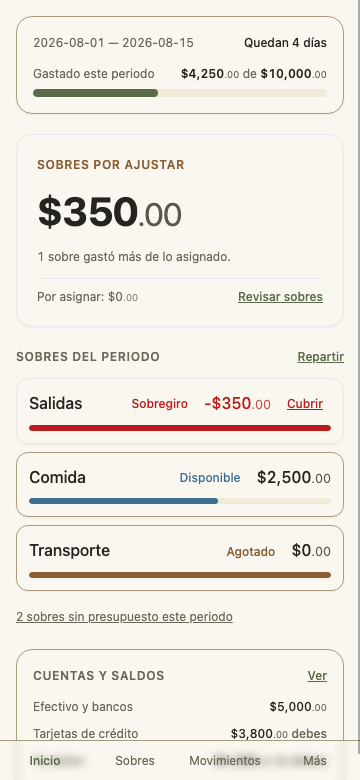
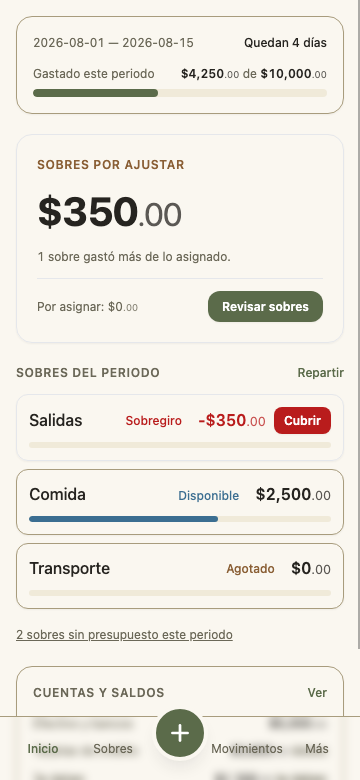
feat(ux): semantica de disponible en barras, botones vs enlaces, FAB central opcion A y padding-bottom completo

diff --git a/src/app/(app)/InicioView.tsx b/src/app/(app)/InicioView.tsx
@@ -128,11 +128,14 @@ function HeroCard({ dashboard }: { dashboard: DashboardResponse }) {
           <p className="text-xs text-muted">{overspentLabel}</p>
         </div>
 
-        <div className="flex items-center justify-between gap-2 border-t border-border/60 pt-2 text-xs">
+        <div className="flex items-center justify-between gap-2 border-t border-border/60 pt-3 text-xs">
           <span className="text-muted shrink-0">
             {es.field.unassignedCents}: <Money cents="0" />
           </span>
-          <Link href="/sobres" className="font-medium text-primary underline shrink-0">
+          <Link
+            href="/sobres"
+            className="inline-flex items-center justify-center rounded-lg bg-primary px-3.5 py-1.5 text-xs font-semibold text-primary-foreground shadow-sm transition-transform hover:opacity-95 active:scale-95 shrink-0"
+          >
             {es.inicio.reviewEnvelopes}
           </Link>
         </div>
@@ -154,8 +157,12 @@ function HeroCard({ dashboard }: { dashboard: DashboardResponse }) {
           <p className="text-xs text-muted">{es.inicio.readyToAssign}</p>
         </div>
 
-        <div className="border-t border-border/60 pt-2">
-          <Link href="/sobres" className="text-xs font-medium text-primary underline">
+        <div className="flex items-center justify-between gap-2 border-t border-border/60 pt-3 text-xs">
+          <span className="text-muted">{es.inicio.readyToAssign}</span>
+          <Link
+            href="/sobres"
+            className="inline-flex items-center justify-center rounded-lg bg-primary px-3.5 py-1.5 text-xs font-semibold text-primary-foreground shadow-sm transition-transform hover:opacity-95 active:scale-95 shrink-0"
+          >
             {es.inicio.assignAction}
           </Link>
         </div>
@@ -186,12 +193,17 @@ function HeroCard({ dashboard }: { dashboard: DashboardResponse }) {
 
 function EnvelopeProgressItem({ category }: { category: InsightCategoryBalance }) {
   const assigned = BigInt(category.assignedCents);
-  const spent = BigInt(category.spentCents);
+  const available = BigInt(category.availableCents);
   const isOverspent = category.status === 'overspent';
   const isDepleted = category.status === 'depleted';
   const hasBudget = category.hasBudget;
 
-  const percentage = assigned > 0n ? Math.min(Number((spent * 100n) / assigned), 100) : 0;
+  // Semantica de la barra: Mide el monto que queda en la categoria,
+  // concordando directamente con la cifra restante que tiene al lado.
+  const availablePercentage =
+    assigned > 0n
+      ? Math.max(0, Math.min(Number((available * 100n) / assigned), 100))
+      : 0;
 
   let progressColor = 'bg-state-available';
   if (isOverspent) progressColor = 'bg-state-overspent';
@@ -211,7 +223,7 @@ function EnvelopeProgressItem({ category }: { category: InsightCategoryBalance }
           <EnvelopeStatusBadge status={category.status} />
           {hasBudget ? (
             <span
-              className={`font-medium ${isOverspent ? 'text-state-overspent' : 'text-foreground'}`}
+              className={`font-semibold ${isOverspent ? 'text-state-overspent' : 'text-foreground'}`}
             >
               <Money cents={category.availableCents} />
             </span>
@@ -219,7 +231,7 @@ function EnvelopeProgressItem({ category }: { category: InsightCategoryBalance }
           {isOverspent ? (
             <Link
               href="/sobres"
-              className="rounded bg-state-overspent/10 px-2 py-0.5 text-xs font-medium text-state-overspent underline shrink-0"
+              className="inline-flex items-center justify-center rounded-md bg-state-overspent px-2.5 py-1 text-xs font-semibold text-white shadow-sm transition-transform hover:opacity-90 active:scale-95 shrink-0"
             >
               {es.inicio.coverOverspend}
             </Link>
@@ -231,7 +243,7 @@ function EnvelopeProgressItem({ category }: { category: InsightCategoryBalance }
         <div className="h-1.5 w-full overflow-hidden rounded-full bg-muted-background">
           <div
             className={`h-full rounded-full transition-all duration-300 ${progressColor}`}
-            style={{ width: `${percentage}%` }}
+            style={{ width: `${availablePercentage}%` }}
           />
         </div>
       ) : null}
@@ -397,7 +409,7 @@ export function InicioView() {
   }
 
   return (
-    <div className="mx-auto flex w-full max-w-lg flex-col gap-5 p-4 min-w-0">
+    <div className="mx-auto flex w-full max-w-lg flex-col gap-5 p-4 min-w-0 pb-28">
       {data.unbudgetedTransactions.length > 0 ? (
         <Banner
           message={`${data.unbudgetedTransactions.length}${es.inicio.unbudgetedSuffix}`}

diff --git a/src/components/layout/TabBar.tsx b/src/components/layout/TabBar.tsx
@@ -5,38 +5,90 @@ import { usePathname } from 'next/navigation';
 import { es } from '@/lib/i18n/es';
 import { cx } from '@/lib/ui/cx';
 
-// Los 4 tabs de SCREENS-front.md Parte 2, etiquetas en lib/i18n/es.ts (es.nav).
-const TABS = [
-  { href: '/', label: es.nav.inicio },
-  { href: '/sobres', label: es.nav.sobres },
-  { href: '/movimientos', label: es.nav.movimientos },
-  { href: '/mas', label: es.nav.mas },
-] as const;
-
 export function TabBar() {
   const pathname = usePathname();
+
+  const isInicio = pathname === '/';
+  const isEnvelopes = pathname.startsWith('/sobres');
+  const isMovimientos = pathname.startsWith('/movimientos');
+  const isMas = pathname.startsWith('/mas');
 
   return (
     <nav
       aria-label="Navegación principal"
-      className="fixed inset-x-0 bottom-0 z-20 flex w-full border-t border-border bg-background/95 backdrop-blur-sm shadow-md"
+      className="fixed inset-x-0 bottom-0 z-20 flex h-16 w-full items-center justify-around border-t border-border bg-background/95 backdrop-blur-sm shadow-md px-2"
     >
-      {TABS.map((tab) => {
-        const isActive = tab.href === '/' ? pathname === '/' : pathname.startsWith(tab.href);
-        return (
-          <Link
-            key={tab.href}
-            href={tab.href}
-            aria-current={isActive ? 'page' : undefined}
-            className={cx(
-              'flex flex-1 flex-col items-center justify-center py-2.5 px-1 text-xs min-w-0 transition-colors',
-              isActive ? 'text-primary font-medium' : 'text-muted hover:text-foreground',
-            )}
+      {/* 1. Inicio tab */}
+      <Link
+        href="/"
+        aria-current={isInicio ? 'page' : undefined}
+        className={cx(
+          'flex flex-1 flex-col items-center justify-center py-1 text-xs min-w-0 transition-colors',
+          isInicio ? 'text-primary font-medium' : 'text-muted hover:text-foreground',
+        )}
+      >
+        <span className="truncate">{es.nav.inicio}</span>
+      </Link>
+
+      {/* 2. Envelopes tab */}
+      <Link
+        href="/sobres"
+        aria-current={isEnvelopes ? 'page' : undefined}
+        className={cx(
+          'flex flex-1 flex-col items-center justify-center py-1 text-xs min-w-0 transition-colors',
+          isEnvelopes ? 'text-primary font-medium' : 'text-muted hover:text-foreground',
+        )}
+      >
+        <span className="truncate">{es.nav.sobres}</span>
+      </Link>
+
+      {/* 3. Botón Central Hero Action: Capturar gasto (FAB Opción A) */}
+      <div className="relative -top-4 flex shrink-0 items-center justify-center px-1">
+        <Link
+          href="/capturar/gasto"
+          aria-label="Capturar un gasto"
+          className="flex h-14 w-14 items-center justify-center rounded-full bg-primary text-primary-foreground shadow-lg transition-transform hover:scale-105 active:scale-95 border-4 border-background"
+        >
+          <svg
+            xmlns="http://www.w3.org/2000/svg"
+            width="26"
+            height="26"
+            viewBox="0 0 24 24"
+            fill="none"
+            stroke="currentColor"
+            strokeWidth="2.5"
+            strokeLinecap="round"
+            strokeLinejoin="round"
           >
-            <span className="truncate">{tab.label}</span>
-          </Link>
-        );
-      })}
+            <line x1="12" y1="5" x2="12" y2="19"></line>
+            <line x1="5" y1="12" x2="19" y2="12"></line>
+          </svg>
+        </Link>
+      </div>
+
+      {/* 4. Movimientos */}
+      <Link
+        href="/movimientos"
+        aria-current={isMovimientos ? 'page' : undefined}
+        className={cx(
+          'flex flex-1 flex-col items-center justify-center py-1 text-xs min-w-0 transition-colors',
+          isMovimientos ? 'text-primary font-medium' : 'text-muted hover:text-foreground',
+        )}
+      >
+        <span className="truncate">{es.nav.movimientos}</span>
+      </Link>
+
+      {/* 5. Más */}
+      <Link
+        href="/mas"
+        aria-current={isMas ? 'page' : undefined}
+        className={cx(
+          'flex flex-1 flex-col items-center justify-center py-1 text-xs min-w-0 transition-colors',
+          isMas ? 'text-primary font-medium' : 'text-muted hover:text-foreground',
+        )}
+      >
+        <span className="truncate">{es.nav.mas}</span>
+      </Link>
     </nav>
   );
 }

diff --git a/src/features/envelopes/components/CategoryCard.tsx b/src/features/envelopes/components/CategoryCard.tsx
@@ -35,8 +35,13 @@ export function CategoryCard({
   const isOverspentFromClosedPeriod = isOverspent && period.spentCents === '0';
 
   const assigned = BigInt(period.assignedCents);
-  const spent = BigInt(period.spentCents);
-  const percentage = assigned > 0n ? Math.min(Number((spent * 100n) / assigned), 100) : 0;
+  const available = BigInt(period.availableCents);
+  // Semantica de la barra: Mide el monto que queda en la categoria,
+  // concordando directamente con la cifra restante que tiene al lado.
+  const availablePercentage =
+    assigned > 0n
+      ? Math.max(0, Math.min(Number((available * 100n) / assigned), 100))
+      : 0;
 
   let progressColor = 'bg-state-available';
   if (isOverspent) progressColor = 'bg-state-overspent';
@@ -94,7 +99,7 @@ export function CategoryCard({
           <div className="h-1.5 w-full overflow-hidden rounded-full bg-muted-background">
             <div
               className={`h-full rounded-full transition-all duration-300 ${progressColor}`}
-              style={{ width: `${percentage}%` }}
+              style={{ width: `${availablePercentage}%` }}
             />
           </div>
         </div>

diff --git a/src/app/(app)/layout.tsx b/src/app/(app)/layout.tsx
@@ -1,5 +1,4 @@
 import { redirect } from 'next/navigation';
-import { Fab } from '@/components/layout/Fab';
 import { TabBar } from '@/components/layout/TabBar';
 import { listAccounts } from '@/features/accounts/services/accounts';
 
@@ -16,9 +15,8 @@ export default async function AppLayout({ children }: { children: React.ReactNod
   }
 
   return (
-    <div className="pb-16">
+    <div className="pb-28">
       {children}
-      <Fab />
       <TabBar />
     </div>
   );

diff --git a/PROGRESS-UX.md b/PROGRESS-UX.md
@@ -38,8 +38,22 @@
   * Token `--font-size-hero` (40px bold) para que el monto del héroe domine claramente la pantalla.
   * Títulos de sección subordinados a `text-xs font-semibold uppercase tracking-wider text-muted`.
   * Componentes `Money` y `Balance` ahora renderizan los centavos en menor tamaño relativo (`text-[0.8em] font-normal opacity-75`) para reducir ruido visual y jerarquizar pesos sobre centavos.
-* **Tokens de diseño formales completados:**
-  * Escala tipográfica (`fontSize`: `2xs` a `hero`), radios de curvatura (`borderRadius`: `xs` a `full`), elevaciones/sombras (`boxShadow`: `sm`, `md`, `lg`) y malla de espaciado (`spacing`: `0.5` a `20`) formalizados en variables CSS en `globals.css` y cableados en `tailwind.config.ts`.
+* **Semántica unificada de la barra de sobres (Mide Disponible restante):**
+  * La barra horizontal mide exactamente el dinero que **queda** en el sobre (`availableCents / assignedCents`), concordando 1:1 con la cifra de "Disponible" que tiene al lado.
+  * Al inicio del periodo o con presupuesto intacto: la barra está al 100% (llena en azul `--state-available`). Conforme se gasta se vacía proporcionalmente (metáfora de tanque/batería).
+  * En sobre agotado (`depleted` / $0.00) y sobregiro (`overspent` / déficit): la barra de disponible está al 0% (vacía), y en sobregiro se refuerza mediante borde y badge de alerta rojo. Misma semántica aplicada en `InicioView` y `CategoryCard`.
+* **Jerarquía clara de acciones (Botón vs. Enlace de navegación):**
+  * Las acciones inmediatas que resuelven una situación tienen forma de botón táctil prominente:
+    * `[Revisar sobres]` en la tarjeta héroe: botón primario sólido con sombra y radio generoso.
+    * `[Repartir]` en la tarjeta héroe cuando hay fondos sin asignar: botón primario sólido.
+    * `[Cubrir]` en sobres con déficit: botón sólido de alerta (`bg-state-overspent text-white`).
+  * Los accesos de exploración secundaria permanecen como enlaces de texto discretos:
+    * `"Repartir"` en el título de la sección de sobres.
+    * `"Ver"` en el título de la sección de cuentas.
+* **Barra de navegación con FAB Central Integrado (Opción A):**
+  * La barra inferior fija (`TabBar`) integra la acción principal de la app (capturar gasto) al centro en un botón circular de 56px de diámetro elevado sobre la barra (`bg-primary text-white shadow-lg` con borde exterior de separación).
+  * Distribución ergonómica simétrica: 2 tabs a la izquierda (`Inicio`, `Sobres`), botón central `(+)`, y 2 tabs a la derecha (`Movimientos`, `Más`).
+  * Se asignó `pb-28` al contenedor y al layout para garantizar que al final del scroll todo el bloque de cuentas (incluyendo "Te deben") quede 100% visible sin ser tapado por la barra.
 * **Bloque "Últimos movimientos" en Inicio (Resuelto solo):**
   * La especificación original hablaba de cuatro bloques apilados, pero la auditoría del código demostró que "Últimos movimientos" nunca estuvo montado en `InicioView.tsx`. Por ende, no hubo que remover nada; la pantalla conserva sus 3 bloques estructurales (`Por asignar`, `Sobres`, `Cuentas`).
 * **Barra de resumen del periodo y días restantes:**
